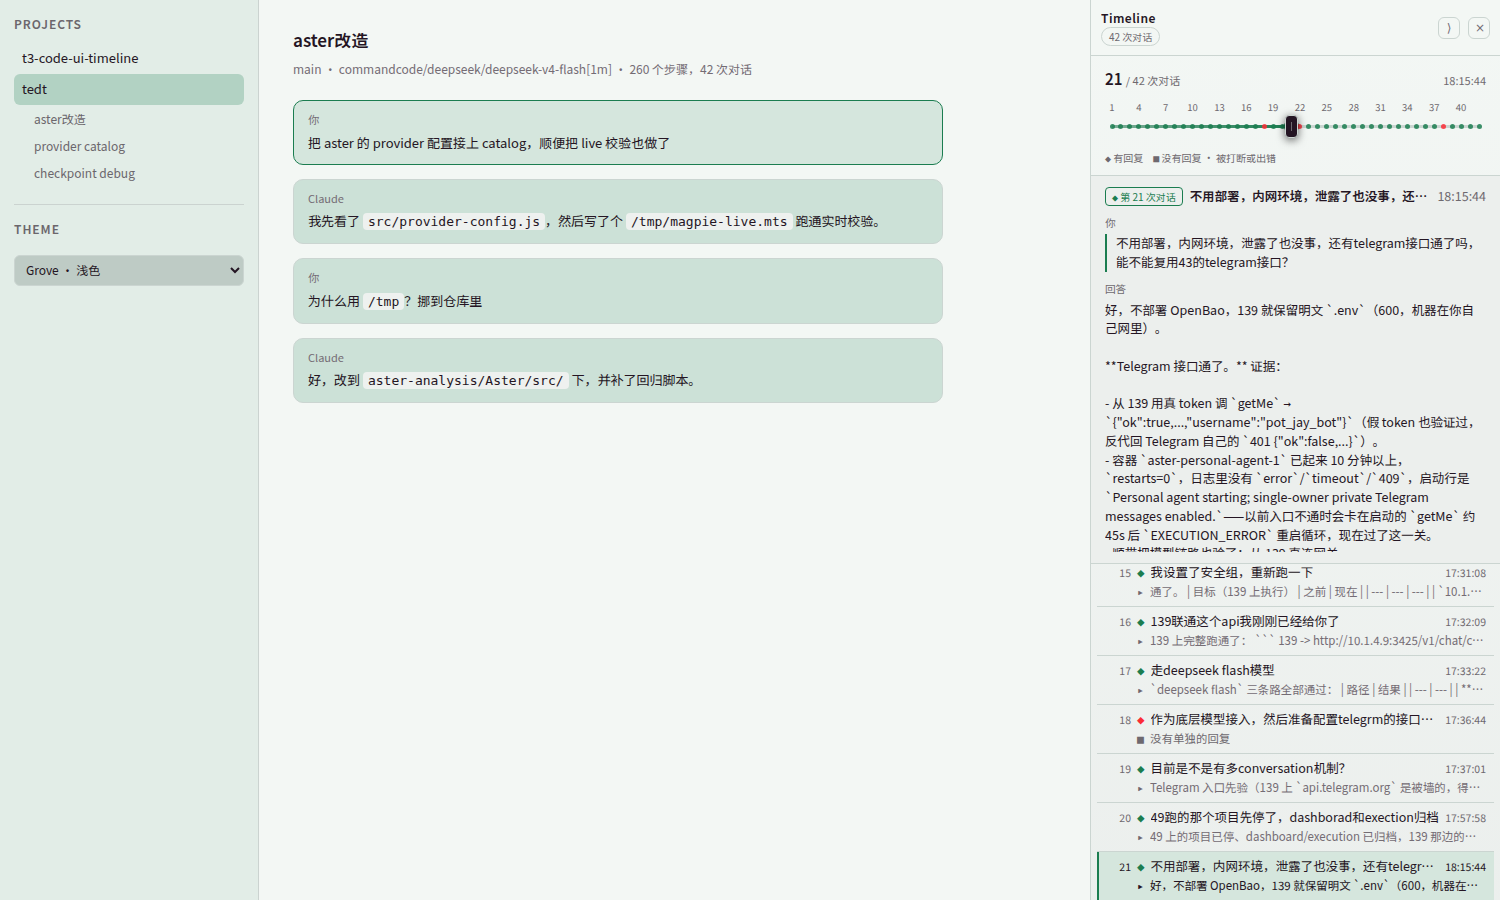
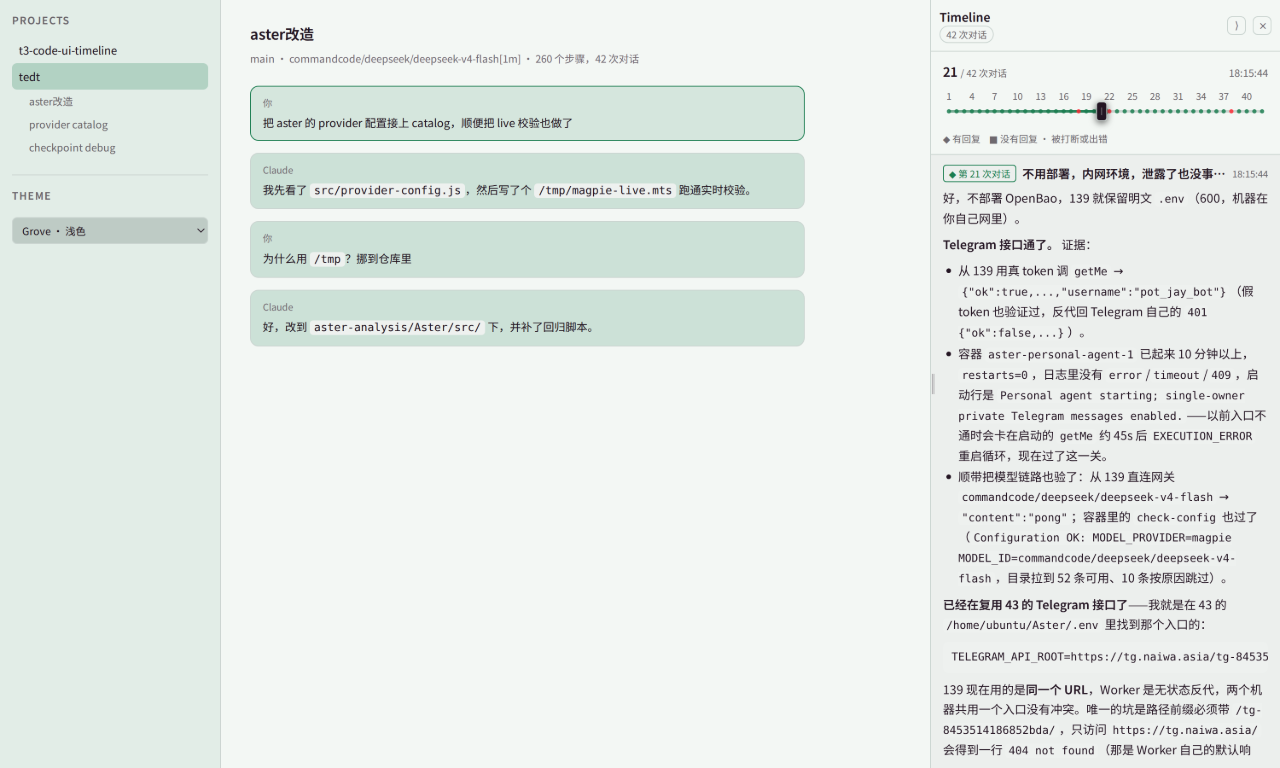
Panel: one checkpoint at a time (#19)
* Panel: one checkpoint at a time

The panel drew the selected conversation and, under it, a list of the
neighbouring conversations with their questions and reply previews. That
put other checkpoints on screen while one was being read, which is not
what a checkpoint view is for: the track above already reaches every
conversation, by drag, by dot, or by arrow key.

So the list is gone and the selected conversation fills the panel: the
header stays put and the rendered reply scrolls under it.

The Markdown the agents write also arrives as `<https://…>` autolinks,
which were escaped and printed with their angle brackets; they render as
links now, and the plain-text pass drops autolinks and any emphasis
markers left unpaired.

* README: screenshots of the single-conversation panel

---------

diff --git a/src/panel.js b/src/panel.js
@@ -11,14 +11,6 @@ import { NODE_META, formatTime, oneLine } from './timeline-core.js';
 // labelled by the kind of step the agent's last word was.
 const CONV = NODE_META.conversation;
 
-// How many conversations the list renders either side of the selected one. The
-// list is a window rather than the whole history: 2500 rows cost ~300ms to lay
-// out, against ~10ms for 120, and the panel redraws whenever the thread moves.
-// The track above is how the whole task is traversed; the list keeps the
-// conversations around wherever you are, at a cost that does not grow with the
-// thread.
-const LIST_SPAN = 60;
-
 const CSS = `
 :host { all: initial; }
 * { box-sizing: border-box; }
@@ -52,9 +44,6 @@ const CSS = `
   --tl-fg-faint: var(--app-theme-muted-foreground, var(--muted-foreground, #565f89));
   --tl-strong: var(--app-theme-text, var(--foreground, #fff));
   --tl-accent: var(--app-theme-accent, var(--primary, #7aa2f7));
-  --tl-hover: var(--app-theme-muted, var(--muted, #20202c));
-  --tl-sel: var(--app-theme-accent-surface, var(--accent, #2a3350));
-  --tl-sel-fg: var(--app-theme-accent-surface-foreground, var(--accent-foreground, #c8d3f5));
   --tl-code-bg: var(--app-theme-code-background, var(--code-background, #101018));
   --tl-code-fg: var(--app-theme-code-foreground, var(--code-foreground, #cfd6f7));
   --tl-error: var(--app-theme-error, var(--error, #f7768e));
@@ -178,9 +167,6 @@ const CSS = `
   --tl-fg-faint: var(--app-theme-muted-foreground, var(--muted-foreground, #a1a1aa));
   --tl-strong: var(--app-theme-text, var(--foreground, #18181b));
   --tl-accent: var(--app-theme-accent, var(--primary, #3b6fd4));
-  --tl-hover: var(--app-theme-muted, var(--muted, #f4f4f5));
-  --tl-sel: var(--app-theme-accent-surface, var(--accent, #e8edfb));
-  --tl-sel-fg: var(--app-theme-accent-surface-foreground, var(--accent-foreground, #1e3a8a));
   --tl-code-bg: var(--app-theme-code-background, var(--code-background, #f7f7f8));
   --tl-code-fg: var(--app-theme-code-foreground, var(--code-foreground, #27272a));
   --tl-error: var(--app-theme-error, var(--error, #dc2626));
@@ -289,13 +275,16 @@ const CSS = `
 .legend { display: flex; gap: 10px; margin-top: 8px; font-size: var(--text-2xs, 11px); color: var(--tl-fg-faint); }
 .legend i { font-style: normal; }
 
+/* One conversation, and nothing else: the selected checkpoint fills the body
+   below the scrubber. The panel used to list the neighbouring conversations
+   under it, which put other checkpoints' questions and answers on screen while
+   one was being read. */
 .detail {
-  flex: 0 0 auto; max-height: 46%; display: flex; flex-direction: column;
-  padding: 11px 14px; border-bottom: 1px solid var(--tl-line); background: var(--tl-surface-2);
+  flex: 1 1 auto; min-height: 0; display: flex; flex-direction: column;
+  padding: 11px 14px; background: var(--tl-surface-2);
 }
-/* Only the body scrolls: the restore action belongs to the step and has to stay
-   within reach however long the diff is. */
-.detail .dscroll { overflow: auto; min-height: 0; }
+/* The header stays put; the reply below it is the part that scrolls. */
+.detail .dscroll { flex: 1 1 auto; overflow: auto; min-height: 0; scrollbar-color: var(--tl-scroll) transparent; }
 .detail .dhead { display: flex; align-items: center; gap: 7px; margin-bottom: 7px; }
 .detail .name { font-weight: 600; color: var(--tl-strong); min-width: 0; overflow: hidden; text-overflow: ellipsis; white-space: nowrap; }
 .detail .when { margin-left: auto; color: var(--tl-fg-faint); white-space: nowrap; font-size: var(--text-2xs, 11px); font-variant-numeric: tabular-nums; }
@@ -333,34 +322,6 @@ const CSS = `
 .msg.none { color: var(--tl-fg-faint); }
 .outcome { margin-top: 6px; color: var(--tl-fg-faint); font-size: var(--text-2xs, 11px); }
 
-.list { flex: 1 1 auto; min-height: 0; overflow: auto; padding: 6px 6px 14px; scrollbar-color: var(--tl-scroll) transparent; }
-.row {
-  display: grid; grid-template-columns: 26px 1fr; gap: 6px; align-items: baseline;
-  padding: 5px 8px; border-radius: 6px; cursor: pointer;
-}
-.row:hover { background: var(--tl-hover); }
-.row.on { background: var(--tl-sel); color: var(--tl-sel-fg); box-shadow: inset 2px 0 0 var(--tl-accent); }
-.row.on .sum, .row.on .no, .row.on .time { color: inherit; }
-.row .no { color: var(--tl-fg-faint); font-size: var(--text-2xs, 11px); text-align: right; font-variant-numeric: tabular-nums; }
-.row .txt { min-width: 0; }
-.row .lead { display: flex; align-items: baseline; gap: 6px; }
-.row .sum { color: var(--tl-fg); overflow: hidden; text-overflow: ellipsis; white-space: nowrap; }
-.row .time { margin-left: auto; color: var(--tl-fg-faint); font-size: var(--text-2xs, 11px); font-variant-numeric: tabular-nums; }
-/* A conversation is two lines — what was asked, what came of it — and the row is
-   the boundary between one conversation and the next, so it carries the rule. */
-.row.conv + .row.conv { border-top: 1px solid var(--tl-line); border-radius: 0; }
-.row .rep { display: flex; gap: 6px; margin-top: 2px; color: var(--tl-fg-dim); font-size: var(--text-xs, 12px); }
-.row .rep > span:last-child { min-width: 0; overflow: hidden; text-overflow: ellipsis; white-space: nowrap; }
-.row .rep .mark { color: var(--tl-fg-faint); }
-.row .rep.none { color: var(--tl-fg-faint); }
-.row.on .rep, .row.on .rep .mark { color: inherit; }
-.row.s1 { opacity: .82; }
-.row.s2 { opacity: .6; }
-.row.s1 .sum, .row.s2 .sum { color: var(--tl-fg-dim); }
-.turnsep { display: flex; align-items: center; gap: 8px; margin: 9px 8px 3px; color: var(--tl-fg-faint); font-size: var(--text-2xs, 11px); }
-.turnsep::after { content: ""; flex: 1 1 auto; height: 1px; background: var(--tl-line); }
-.turnsep.edge { margin: 7px 8px; color: var(--tl-fg-faint); }
-.turnsep.edge::after { flex: 0 0 0; }
 .empty { color: var(--tl-fg-faint); padding: 20px 14px; text-align: center; }
 .empty .note { display: block; margin-top: 6px; font-size: var(--text-xs, 12px); opacity: .75; word-break: break-all; white-space: pre-line; }
 `;
@@ -621,10 +582,10 @@ export class TimelinePanel {
     return this;
   }
 
-  select(i, { scroll = true } = {}) {
+  select(i) {
     if (!this.nodes.length) return this;
     this.index = Math.max(0, Math.min(i, this.nodes.length - 1));
-    this.#paintSelection({ scroll });
+    this.#paintSelection();
     return this;
   }
 
@@ -670,7 +631,6 @@ export class TimelinePanel {
           </div>
         </div>
         <div class="detail"></div>
-        <div class="list"></div>
       </div>`;
     this.shadow.append(style, dock);
     this.dock = dock;
@@ -707,17 +667,13 @@ export class TimelinePanel {
         /* pointer already released */
       }
     });
-    // Clicks on the dots and on the rows are delegated: there are a few
-    // thousand of each, and one listener per element costs more to build than
-    // the rest of the panel put together.
+    // Clicks on the dots are delegated: there are a few thousand of them, and
+    // one listener per element costs more to build than the rest of the panel
+    // put together.
     dock.querySelector('.dots').addEventListener('click', (e) => {
       const dot = e.target.closest('.dot');
       if (!dot) return;
       this.select([...dot.parentElement.children].indexOf(dot));
-    });
-    dock.querySelector('.list').addEventListener('click', (e) => {
-      const row = e.target.closest('.row');
-      if (row) this.select(Number(row.dataset.k), { scroll: false });
     });
     dock.addEventListener('keydown', (e) => this.#onKey(e));
   }
@@ -784,12 +740,10 @@ export class TimelinePanel {
       shown.push(`<span class="turnmark" style="left:${at(k)}%">${this.nodes[k].turn}</span>`);
     }
     this.shadow.querySelector('.turnmarks').innerHTML = shown.join('');
-
-    this.#buildList();
   }
 
   /** Everything that depends on which step is selected. Runs on every drag step. */
-  #paintSelection({ scroll = false } = {}) {
+  #paintSelection() {
     const n = this.nodes.length;
     const i = Math.max(0, Math.min(this.index, Math.max(0, n - 1)));
     const node = this.nodes[i];
@@ -802,42 +756,13 @@ export class TimelinePanel {
     // the panel's own label for the number would only say it twice.
     this.shadow.querySelector('.readout .turn').textContent = formatTime(node?.startedAt);
 
-    // The window follows the selection, so it is rebuilt only once a drag has
-    // carried the playhead out of it — not on every step of one.
-    if (this.rowFor?.size && !this.rowFor.has(i)) this.#buildList();
-
     if (this.selected !== i) {
       this.dotEls?.[this.selected]?.classList.remove('on');
-      this.rowFor?.get(this.selected)?.classList.remove('on');
       this.dotEls?.[i]?.classList.add('on');
-      this.rowFor?.get(i)?.classList.add('on');
       this.selected = i;
     }
 
     this.#paintDetail(node);
-    if (scroll) this.#reveal(i);
-  }
-
-  /**
-   * Scroll the list so the selected row is on screen — but only when it is not
-   * already. `scrollIntoView` is by far the most expensive thing a drag step
-   * does (~9ms of the 10 it costs, against 0.2ms for the repaint), and during a
-   * drag the row usually has not moved out of view yet. The comparison uses
-   * offsets measured when the window was built, so nothing is measured again.
-   */
-  #reveal(i) {
-    const row = this.rowFor?.get(i);
-    if (!row) return;
-    const list = this.shadow.querySelector('.list');
-    const at = this.rowTop?.get(i);
-    if (!list || !at) {
-      row.scrollIntoView({ block: 'nearest' });
-      return;
-    }
-    const top = at.top - list.scrollTop;
-    if (top < at.margin || top + at.height > list.clientHeight - at.margin) {
-      row.scrollIntoView({ block: 'nearest' });
-    }
   }
 
   #paintDetail(node) {
@@ -852,55 +777,7 @@ export class TimelinePanel {
         <span class="when">${esc(formatTime(node.startedAt))}</span>
       </div>`;
 
-    el.innerHTML = `<div class="dscroll">${head}${conversationBody(node)}</div>`;
-  }
-
-  /**
-   * Rows for the window of conversations around the selection. Rebuilt when the
-   * conversations themselves change, and when the selection leaves the window.
-   *
-   * A row is one boundary: what the user asked, and under it what the agent
-   * finally said. Nothing from in between is listed — that is the whole point of
-   * grouping this way — so the row is the boundary and needs no separator of its
-   * own.
-   */
-  #buildList() {
-    const n = this.nodes.length;
-    const at = Math.max(0, Math.min(this.index, Math.max(0, n - 1)));
-    const from = Math.max(0, at - LIST_SPAN);
-    const to = Math.min(n, at + LIST_SPAN + 1);
-
-    const html = [];
-    // How much of the history is off either end, so the window is not mistaken
-    // for the whole task.
-    if (from > 0) html.push(`<div class="turnsep edge">上方还有 ${from} 次对话</div>`);
-    for (let k = from; k < to; k++) {
-      const node = this.nodes[k];
-      html.push(
-        `<div class="row conv s${CONV.tier}" data-k="${k}">` +
-          `<div class="no">${k + 1}</div>` +
-          `<div class="txt">` +
-          `<div class="lead">` +
-          `<span style="color:${accentOf(node)}">${CONV.glyph}</span>` +
-          `<span class="sum">${esc(plainText(node.summary))}</span>` +
-          `<span class="time">${esc(formatTime(node.startedAt))}</span>` +
-          `</div>` +
-          replyLine(node) +
-          `</div></div>`,
-      );
-    }
-    if (to < n) html.push(`<div class="turnsep edge">下方还有 ${n - to} 次对话</div>`);
-    const list = this.shadow.querySelector('.list');
-    list.innerHTML = html.join('') || '';
-    if (!this.nodes.length) list.replaceChildren(emptyRow());
-    // Kept for the selection repaint, which must not touch the other rows.
-    this.rowFor = new Map([...list.querySelectorAll('.row')].map((el) => [Number(el.dataset.k), el]));
-    // Where each row sits in the list, measured once here so that revealing the
-    // selected one during a drag needs no further measurement (see #reveal).
-    const listTop = list.offsetTop;
-    this.rowTop = new Map(
-      [...this.rowFor].map(([k, el]) => [k, { top: el.offsetTop - listTop, height: el.offsetHeight, margin: 6 }]),
-    );
+    el.innerHTML = `${head}<div class="dscroll">${conversationBody(node)}</div>`;
   }
 }
 
@@ -909,16 +786,6 @@ export class TimelinePanel {
  *  never did. */
 function accentOf(node) {
   return node.reply || node.busy ? CONV.accent : 'var(--tl-stop)';
-}
-
-/** The second line of a row: what the agent finally said, in one line. */
-function replyLine(node) {
-  if (node.reply) {
-    return `<div class="rep"><span class="mark">▸</span><span>${esc(oneLine(plainText(node.reply), 110))}</span></div>`;
-  }
-  // `▸` says there was a reply, `■` that there never will be one, `…` that this
-  // one is still coming.
-  return `<div class="rep none"><span class="mark">${node.busy ? '…' : '■'}</span><span>${esc(whyUnanswered(node))}</span></div>`;
 }
 
 /**
@@ -940,13 +807,12 @@ function whyUnanswered(node) {
   return '没有单独的回复';
 }
 
-/** The failure's own words, when they are short enough to sit in a row.
+/** The failure's own words, when they are short enough to sit beside the note.
  *  `oneLine` and not the raw text: a failure message runs to a whole stack. */
 function tail(node) {
   return node.stopText ? ` · ${esc(oneLine(node.stopText, 120))}` : '';
 }
 
-/** The body of the detail pane: what was asked, and what came of it. */
 /**
  * What the reply pane shows: the agent's answer, rendered.
  *
@@ -967,13 +833,6 @@ function conversationBody(node) {
   const said = node.stopText && !node.reply.includes(node.stopText) ? tail(node) : '';
   const after = node.stop ? `<div class="outcome">这之后${node.stop === 'error' ? '出错' : '被打断'}${said}</div>` : '';
   return `<div class="msg md">${markdownMarkup(node.reply)}</div>${after}`;
-}
-
-function emptyRow() {
-  const d = document.createElement('div');
-  d.className = 'empty';
-  d.innerHTML = emptyMarkup('');
-  return d;
 }
 
 /** The empty state, plus the host's note when it has one. */

diff --git a/src/markdown.js b/src/markdown.js
@@ -20,6 +20,9 @@ function inline(text) {
   s = s.replace(/\*([^*\n]+)\*/g, '<em>$1</em>');
   s = s.replace(/\[([^\]\n]+)\]\(([^)\s]+)\)/g, (m, label, url) =>
     /^https?:\/\//i.test(url) ? `<span class="md-link" title="${url}">${label}</span>` : label);
+  // The other way model output writes a link: `<https://…>`, which markdown
+  // reads as an autolink. Rendered bare it would keep its angle brackets.
+  s = s.replace(/&lt;(https?:\/\/[^\s&]+)&gt;/g, '<span class="md-link" title="$1">$1</span>');
   s = s.replace(/\u0000(\d+)\u0000/g, (m, i) => `<code class="md-ic">${codes[Number(i)] ?? ''}</code>`);
   return s;
 }
@@ -116,7 +119,11 @@ export function plainText(text) {
     .replace(/\*\*([^*\n]+)\*\*/g, '$1')
     .replace(/__([^_\n]+)__/g, '$1')
     .replace(/\[([^\]\n]+)\]\([^)\s]+\)/g, '$1')
+    .replace(/<(https?:\/\/[^\s>]+)>/g, '$1')
     .replace(/^\s*(#{1,6}|[-*+]|>|\d+[.)])\s+/gm, '')
+    // A pair cut in half by the preview's own truncation, or emphasis the model
+    // opened and never closed: the markers are noise in a one-line summary.
+    .replace(/\*\*|__/g, '')
     .replace(/\s+/g, ' ')
     .trim();
 }

diff --git a/README.md b/README.md
@@ -27,9 +27,10 @@ that, so the panel draws the ends:
 | **the end** | the last thing the agent put in front of the user before that next message: an answer, a question, an ask for a key, an ask for permission. On this thread that is 135 answers, 5 asks for a key and 1 question — and 9 conversations that ended on nothing at all. |
 | **what is folded away** | everything else: tool calls, commands, file changes and their diffs, plans, subagent transcripts, checkpoints, compactions. 3376 steps fold into those 150 conversations, and one conversation's middle runs to 360 of them. They are counted, not shown — nothing in the panel is a diff or a tool call any more. |
 
-What one conversation opens to, then its neighbours below it:
+What one conversation opens to — and only that conversation: the others are one
+drag of the track away, not a list underneath it:
 
-![a conversation open: what was asked, then what came of it](docs/conversation.png)
+![one conversation open: its question in the header, its reply rendered below](docs/conversation.png)
 
 **The body is the reply**, and it is rendered rather than shown as source. The
 panel understands the Markdown an agent usually writes — headings, lists,
@@ -223,8 +224,8 @@ node install.mjs --uninstall
 ```
 
 Then hard-reload the T3 Code window, open a thread, and click the pulse icon in
-the thread header. Drag the playhead (or click a coloured dot, or a row in the
-list) to move through the conversations; with the panel focused `←`/`→` move one
+the thread header. Drag the playhead (or click a coloured dot) to move through
+the conversations; with the panel focused `←`/`→` move one
 conversation at a time, `Home`/`End` go to the ends of the task. There is no
 global keyboard shortcut — it would collide with the app's own bindings — so the
 toolbar toggle is how the panel opens and closes.
@@ -437,11 +438,6 @@ CJK system fonts.
   panel has every step and no way to ask for one. "What happened in this
   conversation" — a collapsed list under the reply, or a second playhead — is the
   obvious next thing, and it is why `timeline-core.js` still shapes all of them.
-- **A list that scrolls the whole history.** The list is a window of ±60
-  conversations around the playhead; at 150 conversations that is most of the
-  thread at the present and 90 of them at the top, so reaching the beginning
-  still means dragging the track. A virtualised list would let the list itself
-  scroll end to end.
 - **"Still working" from something better than an item's status.** The signal is
   the newest item's `running` status and nothing else: a run that is alive but
   stuck reads exactly like one that is thinking, and a run killed mid-item leaves
